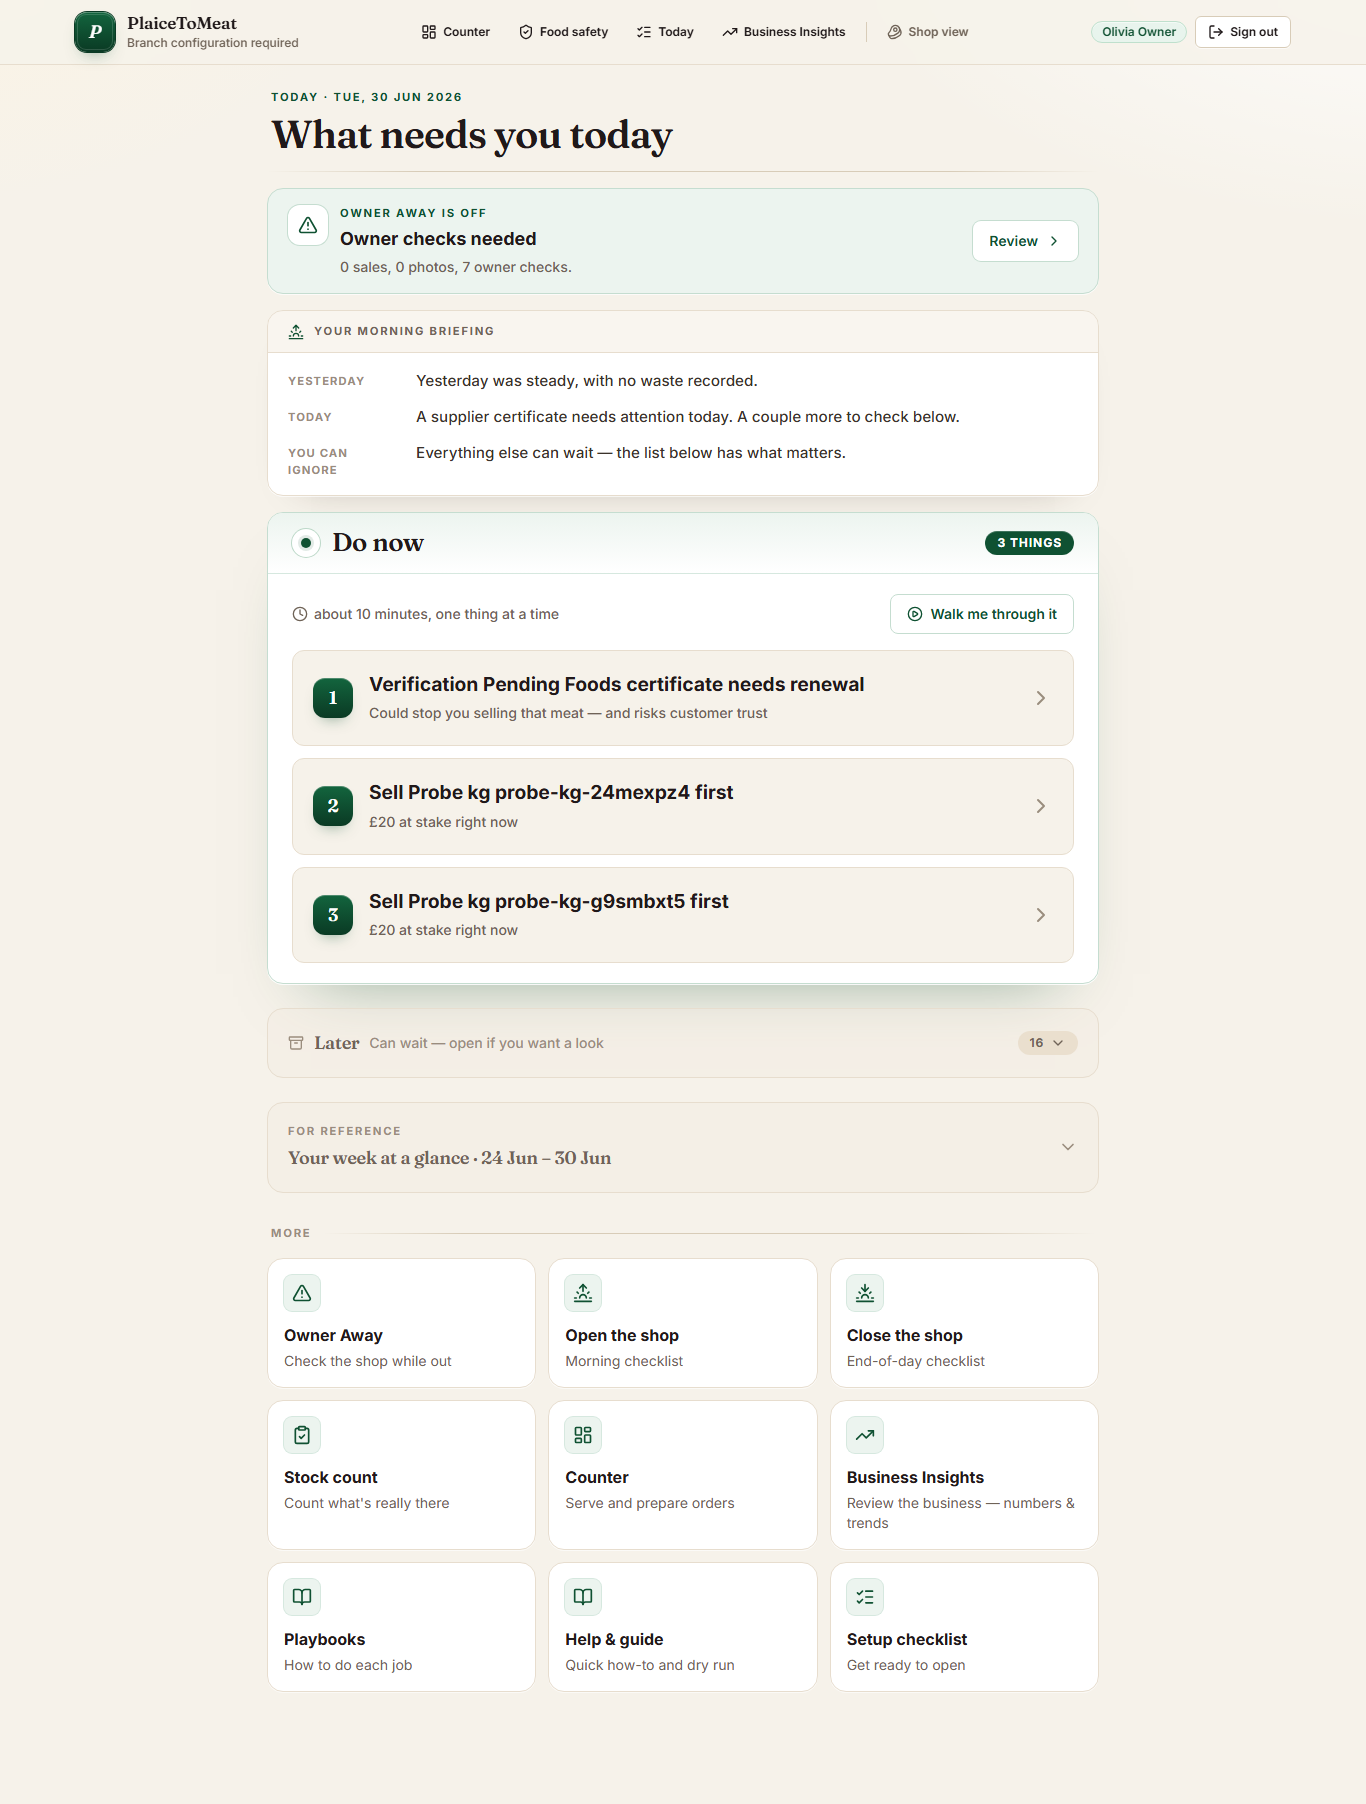
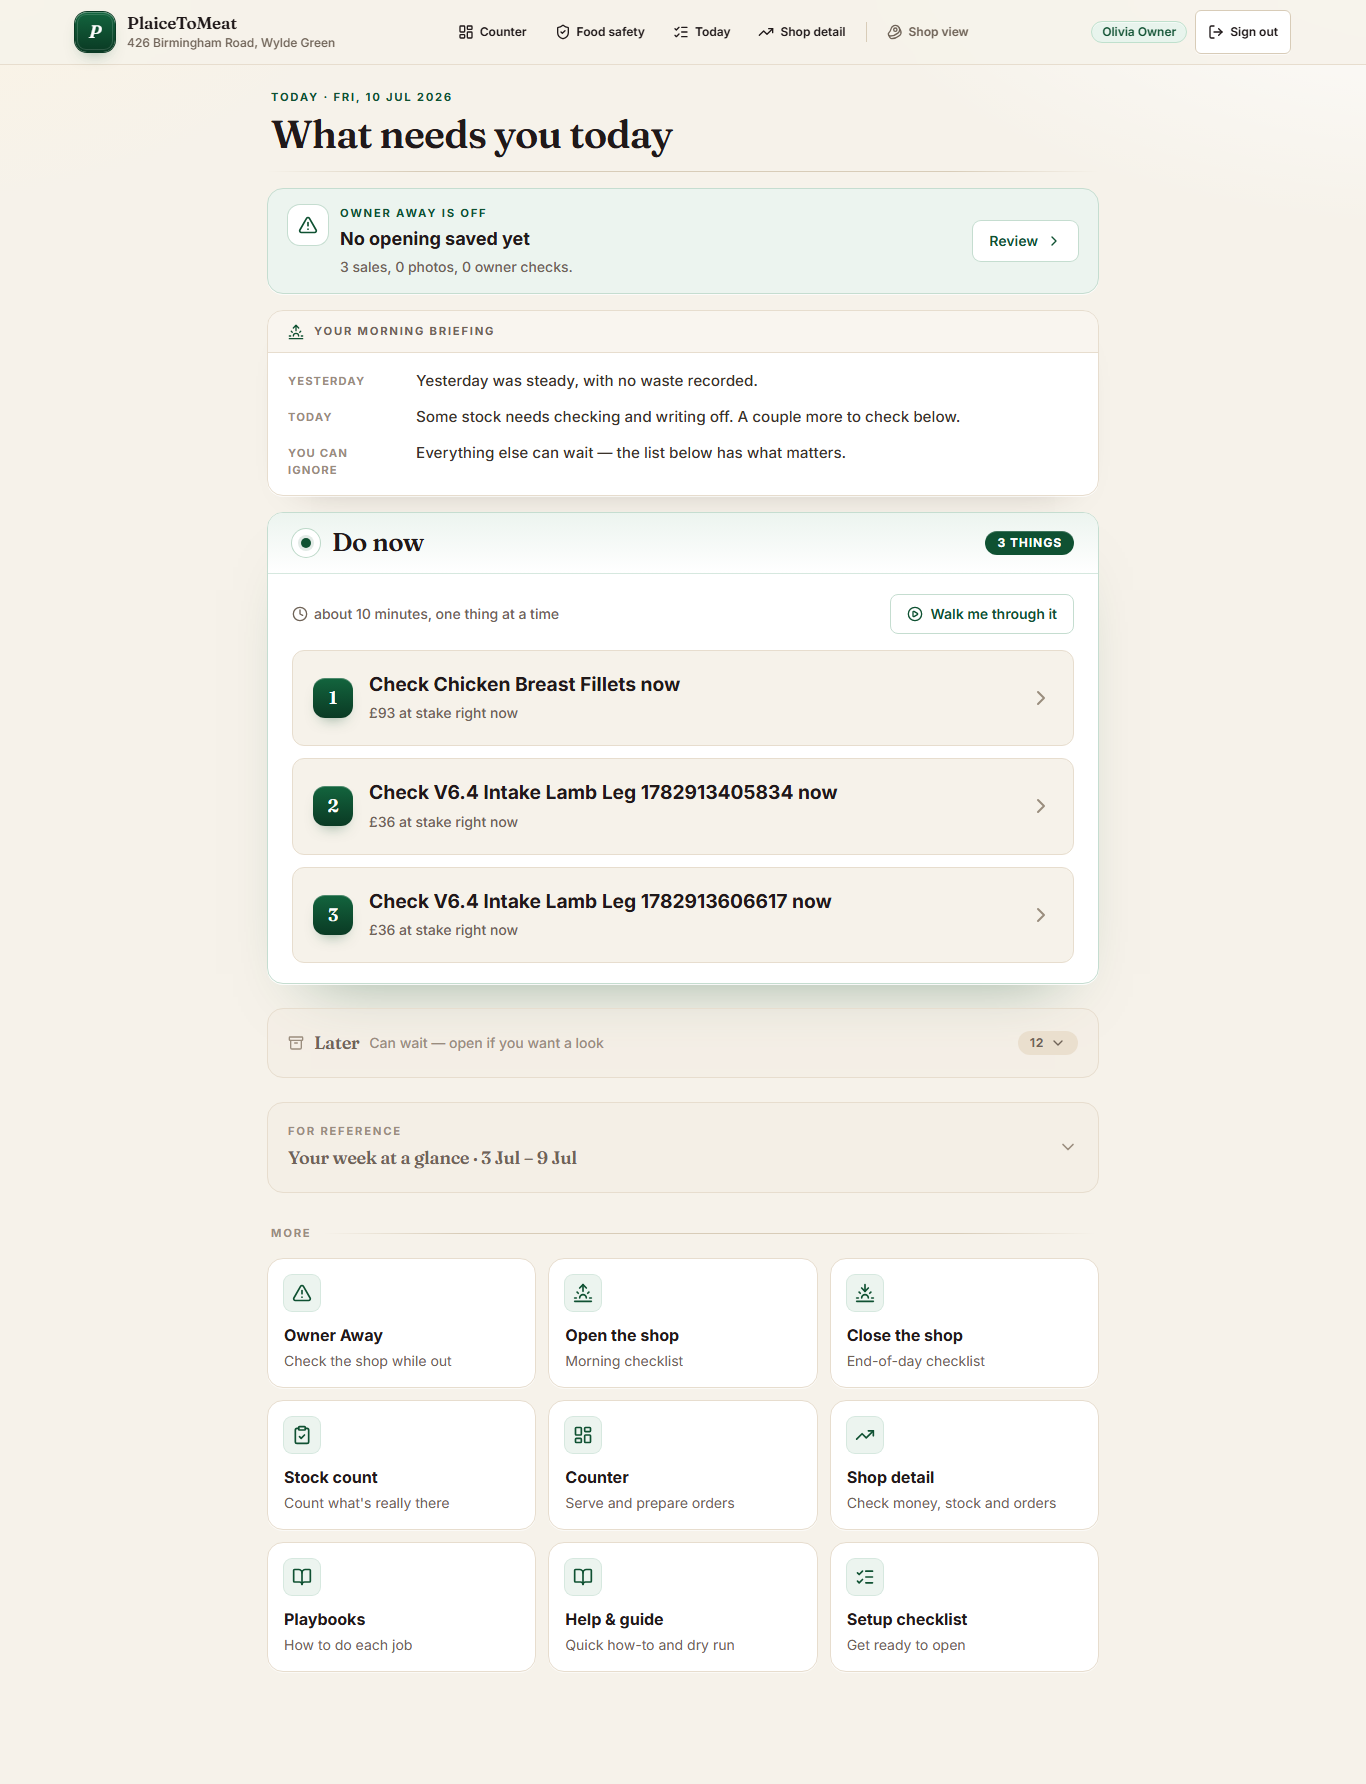
chore: refresh live-gate journey proofs on the reconciled tree
Regenerated by the live tier (7/7 PASS) running against the merged +
hardened main: action-compression, today-os, one-tap, morning-briefing,
customer-winback, low-stock journeys, disaster-recovery certification.

diff --git a/docs/reports/disaster-recovery-certification.md b/docs/reports/disaster-recovery-certification.md
@@ -8,40 +8,40 @@ NOT VALID FOR LAUNCH CERTIFICATION
 - environment: LOCAL
 - drill type: TEST
 - operator: Mara Manager <manager@ptm.test>
-- timestamp: 2026-06-30T17:32:21.163184+00:00
-- restore completed: 2026-06-30T17:32:21.198+00:00
+- timestamp: 2026-07-09T23:35:29.239234+00:00
+- restore completed: 2026-07-09T23:35:29.256+00:00
 
 ## Backup Evidence
 
 - artifact: local-test-backup-evidence.json
-- backup size: 937 bytes
-- checksum: 692ee4d2b4100f54eee84052abe1aaa8c28211548c9499ba884e4584125dc67b
-- timestamp: 2026-06-30T17:32:21.173Z
+- backup size: 923 bytes
+- checksum: 94f0c1e6549b99be0ac51036d1ffbcc171f9b88e2305ce9360714c9f19b3dfc0
+- timestamp: 2026-07-09T23:35:29.242Z
 
 ## Parity Results
 
 | Table | Source | Restored | Variance | Status |
 | --- | ---: | ---: | ---: | --- |
 | profiles | 6 | 6 | 0 | PASS |
-| orders | 140 | 140 | 0 | PASS |
-| order_items | 143 | 143 | 0 | PASS |
-| products | 135 | 135 | 0 | PASS |
-| inventory | 310 | 310 | 0 | PASS |
-| audit_logs | 1630 | 1630 | 0 | PASS |
-| compliance_logs | 2 | 2 | 0 | PASS |
+| orders | 6 | 6 | 0 | PASS |
+| order_items | 6 | 6 | 0 | PASS |
+| products | 17 | 17 | 0 | PASS |
+| inventory | 35 | 35 | 0 | PASS |
+| audit_logs | 338 | 338 | 0 | PASS |
+| compliance_logs | 1 | 1 | 0 | PASS |
 | pricing_validations | 1 | 1 | 0 | PASS |
 
 ## Integrity Results
 
 | Sample | Identifier | Status |
 | --- | --- | --- |
-| latest order | 703d336a-3a11-42d4-8036-b24281034d4e | PASS |
-| oldest order | 01362f2b-a3cd-431e-85db-c30be29692e5 | PASS |
-| random order | 8c03574d-b239-4060-9d0d-8d7ff2ba1db1 | PASS |
-| latest audit event | 05bd8533-9093-486e-bf1c-a6dde0cee6ef | PASS |
-| oldest audit event | af6921de-30ea-4c69-99be-44baf28073f3 | PASS |
-| latest compliance log | 63df772c-168c-4eed-9f98-a5c9a9a1bf7f | PASS |
-| latest pricing validation | 7f659f7c-46ae-4ad3-8c0f-fe8ad01747fe | PASS |
+| latest order | c93c185b-fe75-498d-8cdc-a185b8c054b8 | PASS |
+| oldest order | 5192e315-aefc-49a0-a343-aeb970d64aa4 | PASS |
+| random order | c93c185b-fe75-498d-8cdc-a185b8c054b8 | PASS |
+| latest audit event | 5ed87517-f16f-4669-9809-d9c2198e82a2 | PASS |
+| oldest audit event | bdf3fa99-bbd2-4059-b0db-da0841ff3ec4 | PASS |
+| latest compliance log | 22e46458-98e0-4606-a1e3-a774db0c73bc | PASS |
+| latest pricing validation | 2e014b0c-9b29-43ab-9386-f99b4abf7cea | PASS |
 
 ## Final Verdict
 

diff --git a/docs/v15/one-tap-actions-journey-proof.md b/docs/v15/one-tap-actions-journey-proof.md
@@ -1,6 +1,6 @@
 # V15.2 · One-Tap Action Layer — Operator-Journey Proof
 
-Generated: 2026-06-30T18:29:46.428Z
+Generated: 2026-07-09T23:41:46.766Z
 App: http://127.0.0.1:3001 · operator: owner@ptm.test
 
 A real start-of-day journey against the running app on live data. Screenshot in
@@ -8,16 +8,16 @@ A real start-of-day journey against the running app on live data. Screenshot in
 
 ## TODAY's primary actions and where one tap takes the operator
 
-- **Verification Pending Foods certificate needs renewal** → `/admin/compliance` (one tap to the work)
-- **Sell Probe kg probe-kg-24mexpz4 first** → `/admin/inventory` (one tap to the work)
-- **Sell Probe kg probe-kg-g9smbxt5 first** → `/admin/inventory` (one tap to the work)
+- **Check Chicken Breast Fillets now** → `/admin/stock-count` (one tap to the work)
+- **Check V6.4 Intake Lamb Leg 1782913405834 now** → `/admin/stock-count` (one tap to the work)
+- **Check V6.4 Intake Lamb Leg 1782913606617 now** → `/admin/stock-count` (one tap to the work)
 
 ## Journey checks
 
 - PASS: operator signs in — http://127.0.0.1:3001/admin/today
-- PASS: Do-now actions link straight to the work (one tap, with focus context) — 3/3 carry from=today: Verification Pending Foods certificate needs renewal → /admin/compliance | Sell Probe kg probe-kg-24mexpz4 first → /admin/inventory | Sell Probe kg probe-kg-g9smbxt5 first → /admin/inventory
+- PASS: Do-now actions link straight to the work (one tap, with focus context) — 3/3 carry from=today: Check Chicken Breast Fillets now → /admin/stock-count | Check V6.4 Intake Lamb Leg 1782913405834 now → /admin/stock-count | Check V6.4 Intake Lamb Leg 1782913606617 now → /admin/stock-count
 - PASS: no action opens the wrong destination — all land on known work routes
 - PASS: destination shows the 'From Today' action context, naming the item — headline: Fix
-- PASS: destination offers an explicit Back-to-Today return — /admin/compliance
+- PASS: destination offers an explicit Back-to-Today return — /admin/stock-count
 - PASS: action context survives a refresh — banner still present after reload
 - PASS: completion path returns to TODAY — http://127.0.0.1:3001/admin/today

diff --git a/docs/v15/action-compression-journey-proof.md b/docs/v15/action-compression-journey-proof.md
@@ -1,6 +1,6 @@
 # V15 · Action Compression — Operator-Journey Proof
 
-Generated: 2026-06-30T18:29:41.009Z
+Generated: 2026-07-09T23:41:41.482Z
 App: http://127.0.0.1:3001 · operator: owner@ptm.test
 
 A real rendered operator journey against the running app on live data — not a
@@ -8,18 +8,18 @@ unit test. Screenshot in `./screens/today-compressed.png`.
 
 ## What the operator saw on /admin/today
 
-- **Before compression** (all candidate actions): **19**
+- **Before compression** (all candidate actions): **15**
 - **After compression** (Do now, the primary surface): **3** (cap 3)
-- **Held in Later** (preserved, hidden by default): **16**
+- **Held in Later** (preserved, hidden by default): **12**
 
 ### Top three (Do now)
-1. Verification Pending Foods certificate needs renewal
-1. Sell Probe kg probe-kg-24mexpz4 first
-1. Sell Probe kg probe-kg-g9smbxt5 first
+1. Check Chicken Breast Fillets now
+1. Check V6.4 Intake Lamb Leg 1782913405834 now
+1. Check V6.4 Intake Lamb Leg 1782913606617 now
 
 ## Control proofs
 
 - PASS: operator signs in — http://127.0.0.1:3001/admin/today
-- PASS: TODAY shows at most three Do-now actions — Do now = 3: Verification Pending Foods certificate needs renewal | Sell Probe kg probe-kg-24mexpz4 first | Sell Probe kg probe-kg-g9smbxt5 first
-- PASS: non-winning actions are preserved in Later — Later = 16
+- PASS: TODAY shows at most three Do-now actions — Do now = 3: Check Chicken Breast Fillets now | Check V6.4 Intake Lamb Leg 1782913405834 now | Check V6.4 Intake Lamb Leg 1782913606617 now
+- PASS: non-winning actions are preserved in Later — Later = 12
 - PASS: no score/confidence/ranking language is shown — clean

diff --git a/docs/v15/today-operating-system-proof.md b/docs/v15/today-operating-system-proof.md
@@ -1,6 +1,6 @@
 # V15.1 · TODAY Operating System — Operator-Journey Proof
 
-Generated: 2026-06-30T18:29:42.965Z
+Generated: 2026-07-09T23:41:43.417Z
 App: http://127.0.0.1:3001 · operator: owner@ptm.test · viewport: 1366×1000
 
 A real start-of-day journey against the running app. Screenshot in
@@ -12,15 +12,15 @@ A real start-of-day journey against the running app. Screenshot in
 - **All priorities above the fold (no scrolling):** yes
 
 ### The three things to do now
-1. Verification Pending Foods certificate needs renewal
-2. Sell Probe kg probe-kg-24mexpz4 first
-3. Sell Probe kg probe-kg-g9smbxt5 first
+1. Check Chicken Breast Fillets now
+2. Check V6.4 Intake Lamb Leg 1782913405834 now
+3. Check V6.4 Intake Lamb Leg 1782913606617 now
 
 ## Operating-system checks
 
 - PASS: operator signs in — http://127.0.0.1:3001/admin/today
 - PASS: Do Now is above the fold — all priorities visible without scrolling — zone top=512px bottom=984px (viewport 1000px)
-- PASS: at most three primary actions render — Do now = 3: Verification Pending Foods certificate needs renewal | Sell Probe kg probe-kg-24mexpz4 first | Sell Probe kg probe-kg-g9smbxt5 first
+- PASS: at most three primary actions render — Do now = 3: Check Chicken Breast Fillets now | Check V6.4 Intake Lamb Leg 1782913405834 now | Check V6.4 Intake Lamb Leg 1782913606617 now
 - PASS: the 'How the shop is doing' status panel is retired — shop-status not present
 - PASS: weekly summary never outranks actions (below Do Now, collapsed) — present=true below=true collapsed=true
 - PASS: Later is collapsed by default and below Do Now — present=true collapsed=true below=true

diff --git a/docs/v15/morning-briefing-journey-proof.md b/docs/v15/morning-briefing-journey-proof.md
@@ -1,6 +1,6 @@
 # V15.3 · Morning Briefing Engine — Operator-Journey Proof
 
-Generated: 2026-06-30T18:29:48.360Z
+Generated: 2026-07-09T23:41:48.650Z
 App: http://127.0.0.1:3001 · operator: owner@ptm.test · viewport: 1366×1000
 
 A real start-of-day journey against the running app. Screenshot in
@@ -11,11 +11,11 @@ A real start-of-day journey against the running app. Screenshot in
 - **Yesterday:** YESTERDAY
 Yesterday was steady, with no waste recorded.
 - **Today:** TODAY
-A supplier certificate needs attention today. A couple more to check below.
+Some stock needs checking and writing off. A couple more to check below.
 - **You can ignore:** YOU CAN IGNORE
 Everything else can wait — the list below has what matters.
 
-Briefing length: **29 words** (limit 100). Actions length: 40 words.
+Briefing length: **30 words** (limit 100). Actions length: 37 words.
 
 ## Checks
 
@@ -26,6 +26,6 @@ Briefing length: **29 words** (limit 100). Actions length: 40 words.
 - PASS: briefing + Do Now read without scrolling (above the fold) — Do Now bottom=984px (viewport 1000px)
 - PASS: no metric / number / percentage in the briefing — clean
 - PASS: no confidence / ranking / score language in the briefing — clean
-- PASS: briefing within the 100-word limit — 29 words (target 40–80, max 100)
-- PASS: briefing is shorter than the actions — briefing 29 words vs actions 40 words
+- PASS: briefing within the 100-word limit — 30 words (target 40–80, max 100)
+- PASS: briefing is shorter than the actions — briefing 30 words vs actions 37 words
 - PASS: briefing does not contradict Do Now — consistent

diff --git a/docs/v14/v14.3/low-stock-journey-proof.md b/docs/v14/v14.3/low-stock-journey-proof.md
@@ -1,6 +1,6 @@
 # V14.3 · Low-Stock & Confidence-Routing Journey Proof (Workstream C)
 
-Generated: 2026-06-30T18:29:38.968Z
+Generated: 2026-07-09T23:41:39.441Z
 App: http://127.0.0.1:3001 · Supabase: http://127.0.0.1:54321 · operator: owner@ptm.test
 
 This is a real rendered operator journey against the running app on live
@@ -8,8 +8,8 @@ data — not a unit test. Screenshots in `./screens/`.
 
 ## Live inventory-truth signals (source: inventory_confidence_monitor)
 
-- Low-confidence products on file: **99**
-  - probe kg probe-kg-8dtst10h, probe kg probe-kg-rs2tlsnm, probe kg probe-kg-8l7pzihd, probe kg probe-kg-h4e76j67, probe kg probe-kg-p2g0crf0, probe kg probe-kg-bykuaxn4, probe kg probe-kg-s0rhc2ks, probe kg probe-kg-fdlh99zu, probe kg probe-kg-7je5auh6, probe kg probe-kg-uxwtf18b, probe kg probe-kg-xczsoqh2, probe kg probe-kg-6vtdhpbp …
+- Low-confidence products on file: **4**
+  - chicken breast fillets, v6.4 intake lamb leg 1782913606617, v6.4 intake lamb leg 1782918920569, v6.4 intake lamb leg 1782913405834
 
 ## What the operator saw
 
@@ -33,7 +33,7 @@ data — not a unit test. Screenshots in `./screens/`.
 
 ## Control proofs
 
-- PASS: read live inventory-truth signals — 99 low-confidence product(s) on file
+- PASS: read live inventory-truth signals — 4 low-confidence product(s) on file
 - PASS: operator signs in — http://127.0.0.1:3001/admin/today
 - PASS: purchasing page renders for operator — 0 order recommendation(s): none
 - PASS: confidence→verb contract holds on the purchasing page — no low-confidence product is told to Order

diff --git a/docs/v15/Owner-Brain-Compliance.md b/docs/v15/Owner-Brain-Compliance.md
@@ -2,7 +2,7 @@
 
 _V15.5 · Maturity Audit & Continuous Reduction Guard_
 
-Generated: 2026-06-30T18:27:47.003Z — by `node scripts/verify-owner-brain-compliance.mjs` (static, no app/DB).
+Generated: 2026-07-09T23:33:50.334Z — by `node scripts/verify-owner-brain-compliance.mjs` (static, no app/DB).
 
 > Every release before V15.5 asked "what should we add?". V15.5 asks "what should
 > never return?". This report is regenerated on every run of the guard, so the

diff --git a/docs/v16/Surface-Convergence.md b/docs/v16/Surface-Convergence.md
@@ -1,6 +1,6 @@
 # V16 · Surface Convergence — Stream A Lock
 
-Generated: 2026-06-30T18:27:47.142Z
+Generated: 2026-07-09T23:33:50.465Z
 
 Static guard over `src/app/admin/**/page.tsx`. Keeps the secondary admin surfaces inside the
 one craft-butcher visual language the V16 compression pass established — no return to the old

diff --git a/docs/v16/customer-winback-journey-proof.md b/docs/v16/customer-winback-journey-proof.md
@@ -1,6 +1,6 @@
 # V16 · Customer Win-Back — Operator-Journey Proof
 
-Generated: 2026-06-30T18:29:52.160Z
+Generated: 2026-07-09T23:41:52.408Z
 App: http://127.0.0.1:3001 · operator: owner@ptm.test
 
 A real rendered operator journey against the running app on live seeded data — not a
